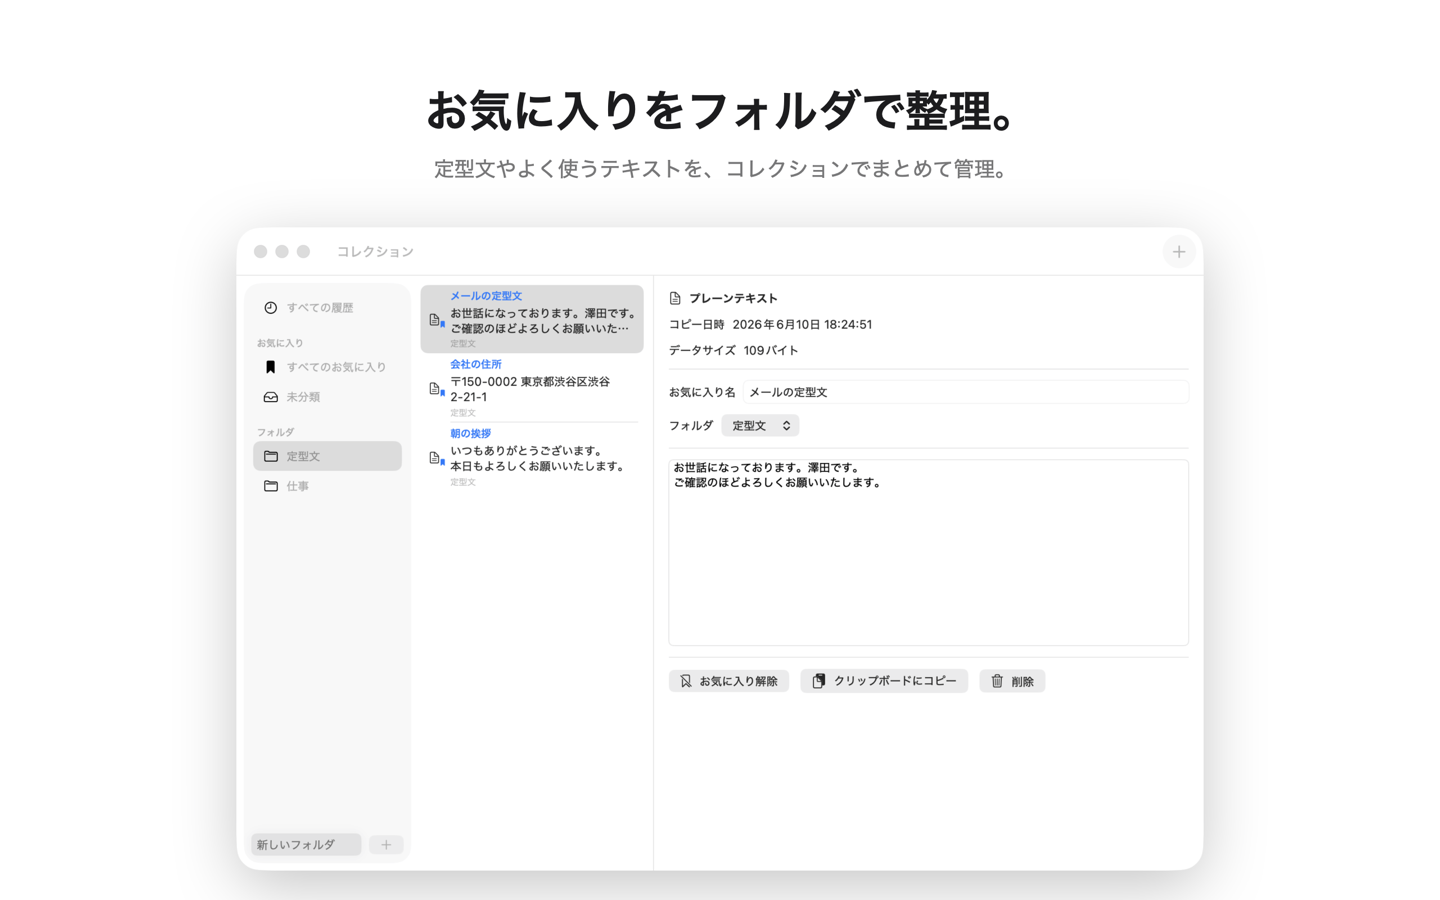
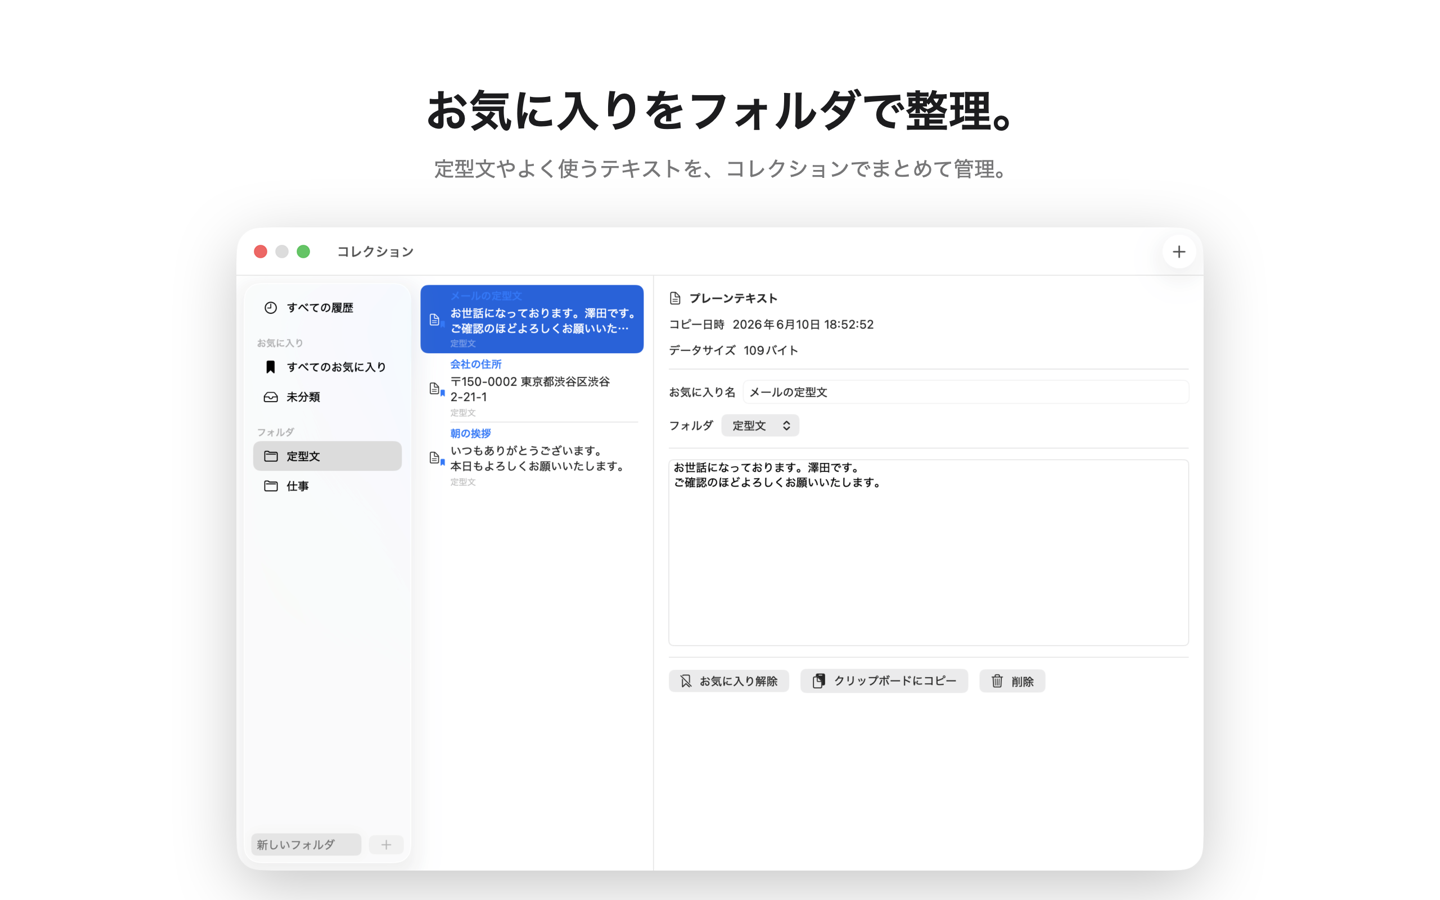
スクリーンショットをアクティブウィンドウ表示で撮影
- NSApp.run() を呼ばないレンダリング専用プロセスではアクティブ化の
  ハンドシェイクが進まないため、finishLaunching + イベント処理付きの
  ランループポンプを導入（信号機が色付き・選択行がアクティブ色になる）
- 実カーソルのホバーで選択が動かないよう、生成中はカーソルを画面隅へ
  退避し終了時に復元
- ビルド出力を固定パス build/screenshots/ に変更（画面収録の TCC 許可が
  DerivedData のパス変動で失われないように）
- open（LaunchServices）経由で起動し、生成中は本番 Clipnyx を一時終了→自動復帰
- Sparkle 除去フェーズの残骸と衝突しないよう成果物を消してからビルド

diff --git a/Clipnyx/Clipnyx/ScreenshotRenderer.swift b/Clipnyx/Clipnyx/ScreenshotRenderer.swift
@@ -19,9 +19,12 @@ enum ScreenshotRenderer {
     static func runIfRequested() -> Bool {
         guard CommandLine.arguments.contains("--render-screenshots") else { return false }
 
-        NSApplication.shared.setActivationPolicy(.accessory)
-        NSApplication.shared.activate(ignoringOtherApps: true)
-        NSRunningApplication.current.activate(options: [.activateIgnoringOtherApps])
+        // ウィンドウをアクティブ表示（色付き信号機）で撮るため、通常アプリとして
+        // 起動を完了させ、イベント処理（pumpRunLoop）でアクティブ化を成立させる
+        let app = NSApplication.shared
+        app.setActivationPolicy(.regular)
+        app.finishLaunching()
+        app.activate(ignoringOtherApps: true)
 
         guard CGPreflightScreenCaptureAccess() else {
             CGRequestScreenCaptureAccess()
@@ -36,6 +39,11 @@ enum ScreenshotRenderer {
 
         let isJapanese = Locale.preferredLanguages.first?.hasPrefix("ja") ?? false
         let lang = isJapanese ? "ja" : "en"
+
+        // 実カーソルのホバーで選択状態が動かないよう、生成中はカーソルを画面隅へ退避
+        let savedMouseLocation = CGEvent(source: nil)?.location ?? .zero
+        CGWarpMouseCursorPosition(CGPoint(x: 2, y: 2))
+        defer { CGWarpMouseCursorPosition(savedMouseLocation) }
 
         for dark in [false, true] {
             let style = dark ? "dark" : "light"
@@ -217,8 +225,21 @@ enum ScreenshotRenderer {
         return NSImage(cgImage: cgImage, size: size)
     }
 
+    /// ランループを回しつつ NSApp のイベントも処理する（アクティブ化・
+    /// キーウィンドウ化のハンドシェイクは run() なしでは進まないため）
     private static func pumpRunLoop(seconds: TimeInterval) {
-        RunLoop.main.run(until: Date().addingTimeInterval(seconds))
+        let end = Date().addingTimeInterval(seconds)
+        while Date() < end {
+            if let event = NSApp.nextEvent(
+                matching: .any,
+                until: Date().addingTimeInterval(0.02),
+                inMode: .default,
+                dequeue: true
+            ) {
+                NSApp.sendEvent(event)
+            }
+            RunLoop.main.run(until: Date().addingTimeInterval(0.01))
+        }
     }
 
     // MARK: - Marketing Composition (2560×1600 = 1280×800 @2x)
